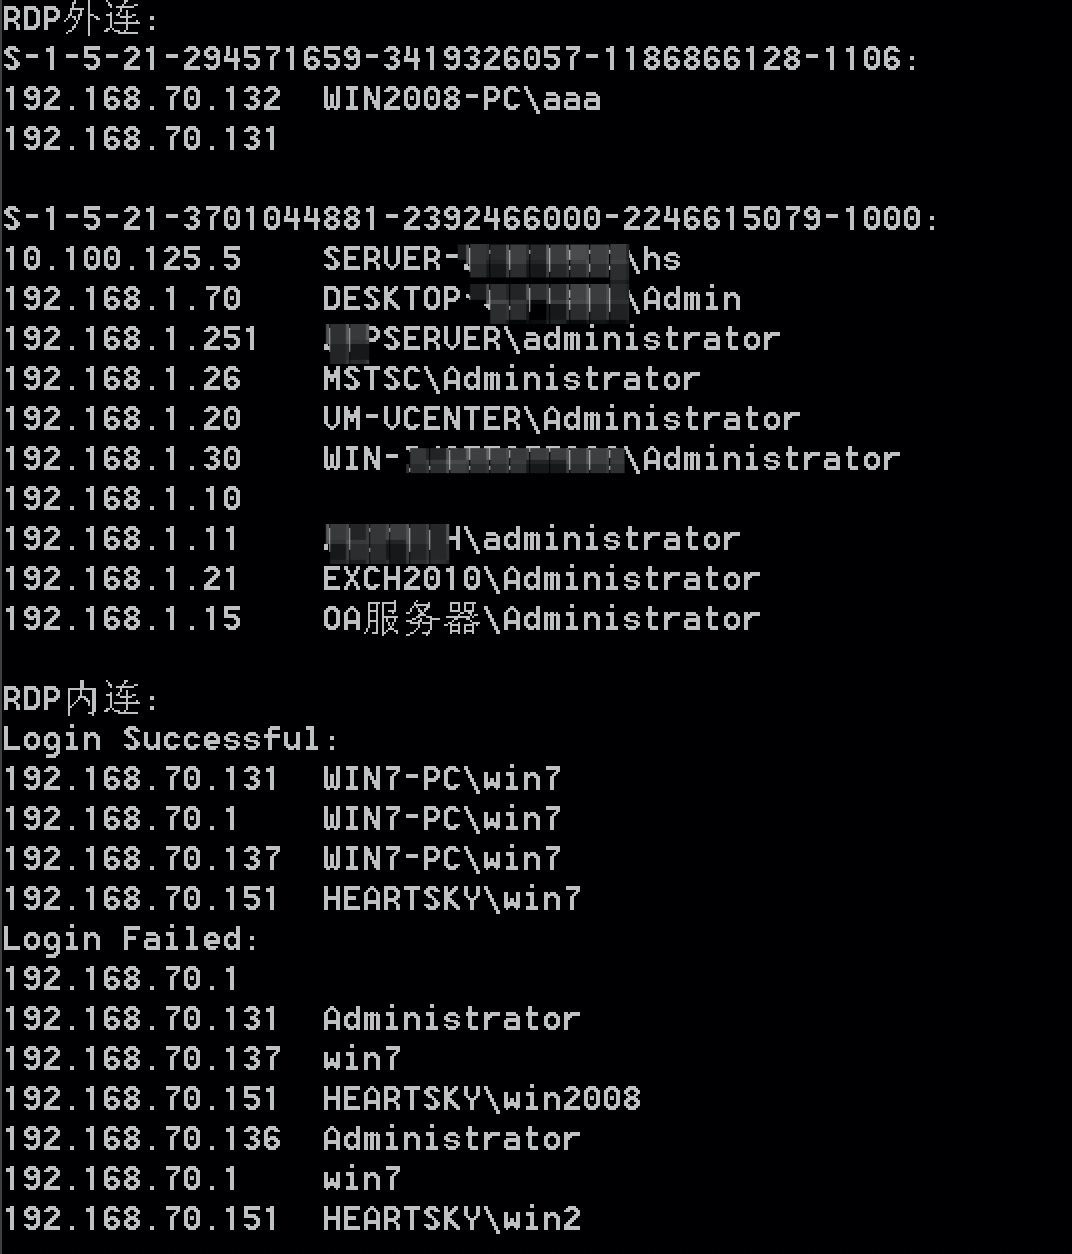
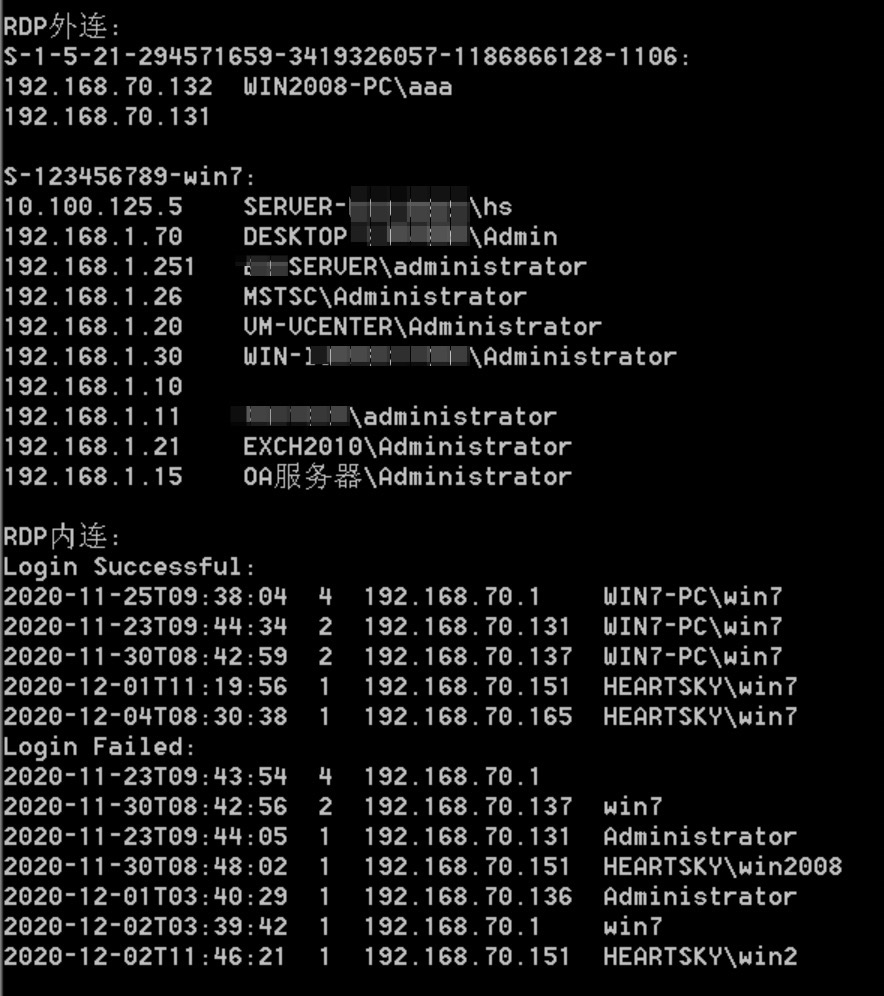
Add order and last login time

Changed region(s): [[0.0, 0.0, 0.8552, 1.0], [0.6719, 0.7781, 0.9468, 0.996], [0.6719, 0.5914, 0.9163, 0.747]]

diff --git a/ListRDPConnections.cs b/ListRDPConnections.cs
@@ -5,17 +5,30 @@ using System.IO;
 using System.Collections.Generic;
 using System.Diagnostics.Eventing.Reader;
 using System.Xml;
+using System.Linq;
 
 class ListRDPConnections
 {
-    private static RegistryKey rk;
+	private static RegistryKey rk;
 	private static string prefix = @"C:\Users\";
+
+	private class Info
+	{
+		public int num;
+		public string lastTime;
+
+		public Info(int v1, string v2)
+		{
+			num = v1;
+			lastTime = v2;
+		}
+	}
 
 	static void ListRDPOutConnections()
 	{
 		Console.WriteLine("RDP外连:");
 
-        List<string> sids = new List<string>(Registry.Users.GetSubKeyNames());
+		List<string> sids = new List<string>(Registry.Users.GetSubKeyNames());
 		
 		// Load NTUSER.DAT
 		foreach (string dic in Directory.GetDirectories(prefix))
@@ -29,8 +42,8 @@ class ListRDPConnections
 			catch
 			{
 				continue;
-            }
-        }
+			}
+		}
 
 		// Dump RDP Connection History
 		foreach (string sid in sids)
@@ -38,13 +51,13 @@ class ListRDPConnections
 			if (!sid.StartsWith("S-") || sid.EndsWith("Classes") || sid.Length < 10)
 				continue;
 
-            Dictionary<string, string> history = GetRegistryValues(sid);
-            if (history.Count != 0)
+			Dictionary<string, string> history = GetRegistryValues(sid);
+			if (history.Count != 0)
 			{
 				Console.WriteLine($"{sid}:");
 				foreach (var item in history)
 				{
-					Console.WriteLine($"{item.Key}	{item.Value}");
+					Console.WriteLine($"{item.Key}\t{item.Value}");
 				}
 				Console.WriteLine();
 			}
@@ -115,30 +128,26 @@ class ListRDPConnections
 		string querySuccess = "*[System/EventID=21] or *[System/EventID=25]";
 		string queryAll = "*[System/EventID=1149]";
 
-		var historySuccess = ListEventvwrRecords(logTypeSuccess, querySuccess);
-		var historyAll = ListEventvwrRecords(logTypeAll, queryAll, true);
+		var historySuccess = ListEventvwrRecords(logTypeSuccess, querySuccess).OrderByDescending(s => s.Value.num).ToDictionary(p => p.Key, p => p.Value);
+		var historyAll = ListEventvwrRecords(logTypeAll, queryAll, true).OrderByDescending(s => s.Value.num).ToDictionary(p => p.Key, p => p.Value);
 
 		Console.WriteLine("Login Successful:");
-		foreach (string history in historySuccess)
+		foreach (var item in historySuccess)
 		{
-			Console.WriteLine(history);
-			int index = historyAll.IndexOf(history);
-			if (index != -1)
-			{
-				historyAll.RemoveAt(index);
-            }
-        }
+			Console.WriteLine($"{item.Value.lastTime}  {item.Value.num}\t{item.Key}");
+			historyAll.Remove(item.Key);
+		}
 
 		Console.WriteLine("Login Failed:");
-		foreach (string history in historyAll)
+		foreach (var item in historyAll)
 		{
-			Console.WriteLine(history);
-        }
+			Console.WriteLine($"{item.Value.lastTime}  {item.Value.num}\t{item.Key}");
+		}
 	}
 
-	static List<string> ListEventvwrRecords(string logType, string query, bool flag=false)
+	static Dictionary<string, Info> ListEventvwrRecords(string logType, string query, bool flag=false)
 	{
-		List<string> values = new List<string>();
+		Dictionary<string, Info> values = new Dictionary<string, Info>();
 
 		var elQuery = new EventLogQuery(logType, PathType.LogName, query);
 		var elReader = new EventLogReader(elQuery);
@@ -147,7 +156,9 @@ class ListRDPConnections
 		{
 			XmlDocument doc = new XmlDocument();
 			doc.LoadXml(eventInstance.ToXml());
+			XmlNodeList systemData = doc.FirstChild.FirstChild.ChildNodes;
 			XmlNodeList userData = doc.FirstChild.LastChild.FirstChild.ChildNodes;
+			string lastTime = systemData[7].Attributes.Item(0).InnerText.Remove(19);
 			string user = userData[0].InnerText;
 			string address = userData[2].InnerText;
 
@@ -156,11 +167,18 @@ class ListRDPConnections
 				string domain = userData[1].InnerText;
 				user = domain + (domain != "" ? "\\" : "")  + user;
 			}
-			string value = $"{address}	{user}";
+			string value = $"{address}\t{user}";
 
-			if (address != "本地" && !values.Exists(t => t == value))
+			if (address != "本地")
 			{
-				values.Add(value);
+				if (!values.ContainsKey(value))
+				{
+					values.Add(value, new Info(1, lastTime));
+				}
+				else
+				{
+					values[value].num += 1;
+				}
 			}
 		}
 
